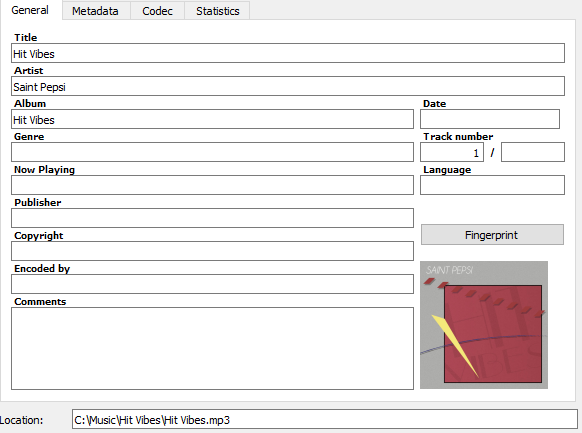
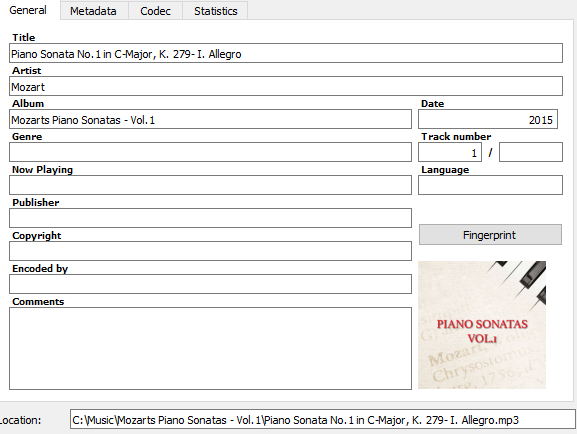
new screenshots

diff --git a/README.md b/README.md
@@ -1,29 +1,31 @@
 # bandcamp-download
-Download Bandcamp albums and songs in mp3 format. MP3 Files come with ID3 metadata. The downsides of downloading mp3s off the internet instead of using a mainstream music player is no more! ID3 Album cover, title, year, album artist... bandcamp-download will take care of it!
+Script which downloads Bandcamp albums and songs in mp3 format. MP3 Files come with ID3 metadata. 
+
+The downsides of downloading mp3s off the internet instead of using a mainstream music player is no more! ID3 Album cover, title, year, album artist... bandcamp-download will take care of it!
 
 # The Script in Action
+### Running the script
 ```powershell
 (base) PS C:\coding\bandcampdownload> python main.py
-Enter Bandcamp link: https://mypetflamingo.bandcamp.com/album/hit-vibes
+Enter Bandcamp link: https://wolfgang-amadeus-mozart.bandcamp.com/album/mozarts-piano-sonatas-vol-1
 Getting MP3 links...
-Getting album cover from: https://f4.bcbits.com/img/a0331286933_16.jpg
+Getting album cover from: https://f4.bcbits.com/img/a3050325896_16.jpg
 Downloading...
-Downloading... Hit Vibes 
-Downloading... Have Faith 
-Downloading... Better 
-Downloading... Together
-Downloading... Around
-Downloading... Skylar Spence
-Downloading... Interlude
-Downloading... I Tried
-Downloading... Strawberry Lemonade
-Downloading... Fantasy
-Downloading... Miss You
-Downloading... Outro
-Success!
+Downloading... Piano Sonata No.1 in C-Major, K. 279- I. Allegro 
+Downloading... Piano Sonata No.1 in C-Major, K. 279- II. Andante 
+Downloading... Piano Sonata No.1 in C-Major, K. 279- III. Allegro 
+Downloading... Piano Sonata No.2 in F-Major, K. 280- I. Allegro Assai 
+Downloading... Piano Sonata No.2 in F-Major, K. 280- II. Adagio 
+Downloading... Piano Sonata No.2 in F-Major, K. 280- III. Presto 
+
+...
 ```
+
+### The mp3 files and album cover downloaded
 <img src='images\album.png'></img>
-<img src='images\metadata.png'></img>
+
+### Correct ID3 metadata
+<p align='center'><img src='images\metadata.png' width='500' height='376.08'/>
 
 # Setup
 1) Install the project zip and extract it. Call it bandcampdownload
